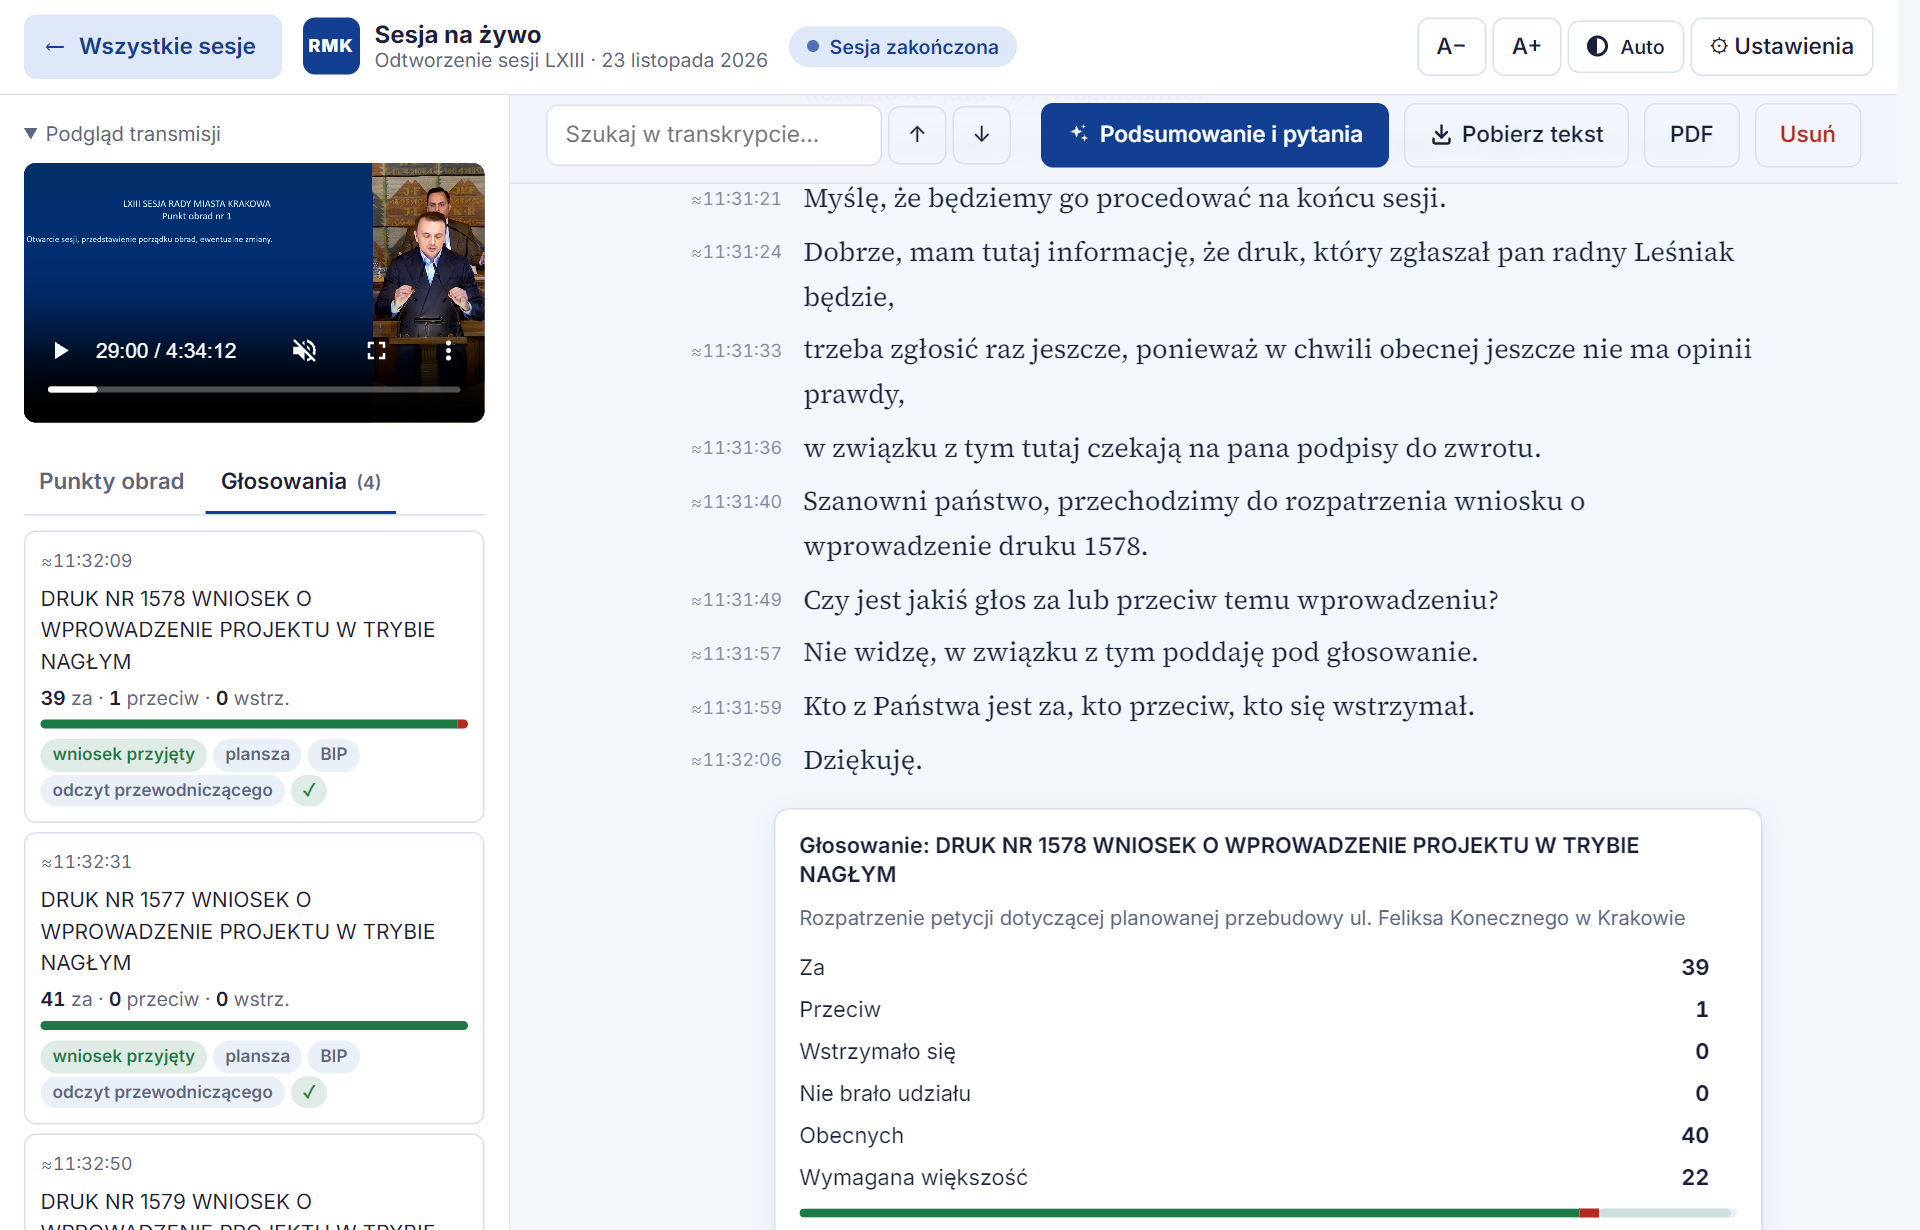
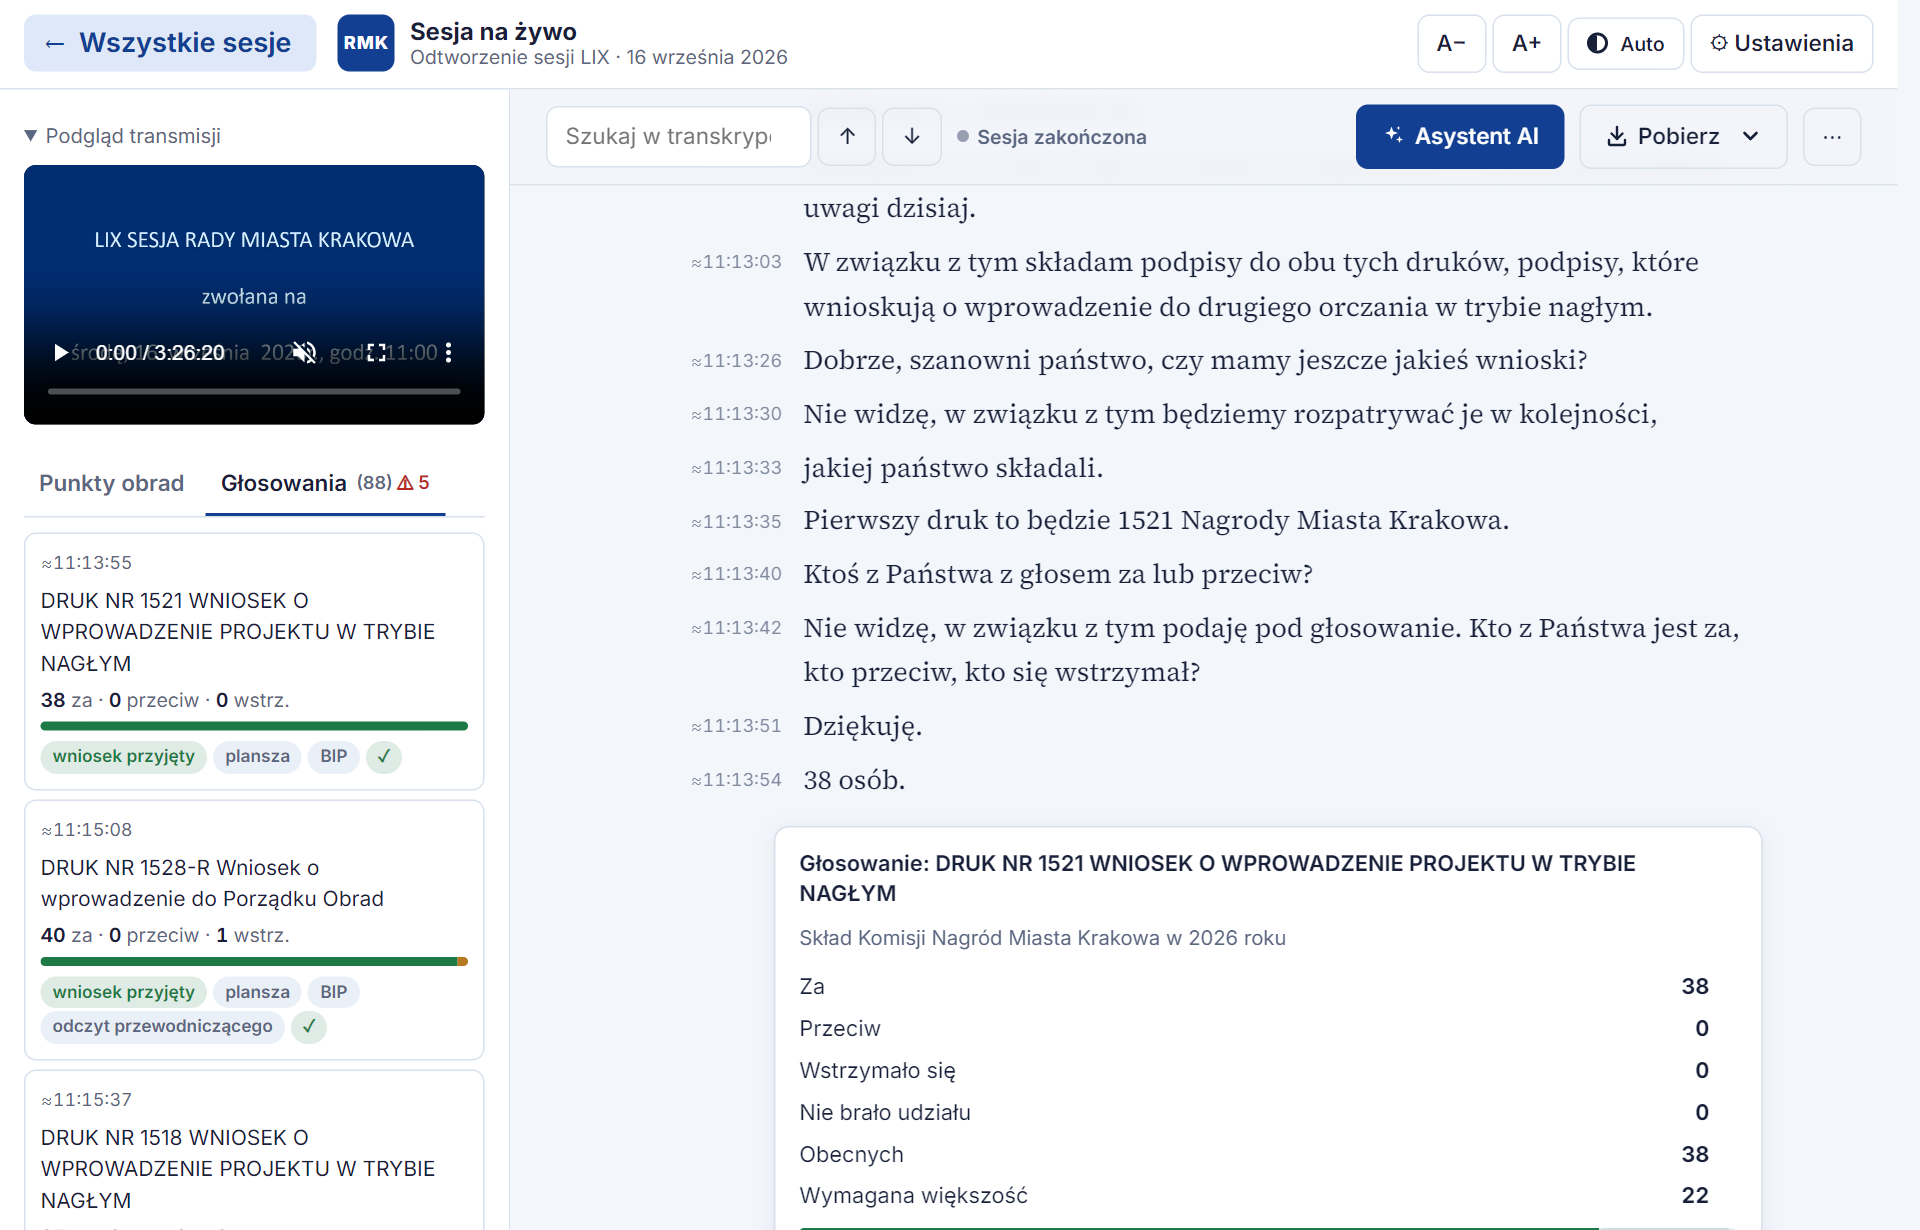
Strona i konfiguracja dla wersji 0.2.4

diff --git a/index.html b/index.html
@@ -98,9 +98,9 @@
         <div class="features">
           <div class="feature"><h3>Transkrypt na żywo</h3><p>Pełne zdania z godziną wypowiedzi, wyszukiwanie i wygodna kolumna do czytania. Tryb jasny i ciemny.</p></div>
           <div class="feature"><h3>Punkty obrad i głosowania</h3><p>Odczytuje planszę systemu głosowań z transmisji: druk, liczby za/przeciw/wstrzymało się i wynik. Wyniki imienne dociąga z BIP.</p></div>
-          <div class="feature"><h3>Podsumowanie i pytania</h3><p>Protokolarne podsumowanie i odpowiedzi z odnośnikami do wypowiedzi (darmowy klucz Gemini). Bez klucza – gotowe polecenie do skopiowania do własnego czatu AI.</p></div>
+          <div class="feature"><h3>Asystent AI</h3><p>Protokolarne podsumowanie i odpowiedzi z odnośnikami do wypowiedzi (darmowy klucz Gemini). Bez klucza – gotowe polecenie do skopiowania do własnego czatu AI.</p></div>
           <div class="feature"><h3>Bez opieki</h3><p>Sama zaczyna zapis, gdy zacznie się sesja, i kończy po niej. Zanik internetu czy restart komputera nie przerywa zapisu sesji.</p></div>
-          <div class="feature"><h3>Archiwum i PDF</h3><p>Każda sesja zostaje w archiwum na komputerze. Eksport do PDF z przebiegiem, tabelą głosowań i pełnym transkryptem.</p></div>
+          <div class="feature"><h3>Archiwum i PDF</h3><p>Każda sesja zostaje w archiwum na komputerze. Dwa pliki PDF: transkrypt sformatowany jak w aplikacji oraz podsumowanie z przebiegiem i głosowaniami (z wynikami imiennymi).</p></div>
           <div class="feature"><h3>Odtworzenie archiwum</h3><p>Dowolną archiwalną sesję z BIP można odtworzyć tak, jakby trwała na żywo – dobre do pokazania, jak to działa.</p></div>
         </div>
       </section>
@@ -111,7 +111,7 @@
           <figure><img src="img/sesja.png" alt="Widok sesji: transkrypt z godzinami, nagłówek punktu obrad i karta głosowania" loading="lazy"><figcaption>Transkrypt z punktami obrad i kartą głosowania</figcaption></figure>
           <figure><img src="img/glosowania-ciemny.png" alt="Lista głosowań z wynikami w trybie ciemnym" loading="lazy"><figcaption>Lista głosowań (tryb ciemny)</figcaption></figure>
           <figure><img src="img/ekran-glowny.png" alt="Ekran główny: czuwanie nad transmisją i archiwum sesji" loading="lazy"><figcaption>Ekran główny: czuwanie i archiwum</figcaption></figure>
-          <figure><img src="img/panel-ai.png" alt="Panel podsumowania i pytań" loading="lazy"><figcaption>Podsumowanie i pytania do AI</figcaption></figure>
+          <figure><img src="img/panel-ai.png" alt="Panel Asystenta AI" loading="lazy"><figcaption>Asystent AI</figcaption></figure>
         </div>
       </section>
 
@@ -158,7 +158,7 @@
               <img src="img/gemini-2.png" alt="Okno Create a new key z wyróżnionym przyciskiem Create key" loading="lazy">
               <p>Kliknij <strong>Copy key</strong>. Klucz traktuj jak hasło – nie wysyłaj go innym.</p>
               <img src="img/gemini-3.png" alt="Okno API key details z ukrytym kluczem i wyróżnionym przyciskiem Copy key" loading="lazy">
-              <p>W aplikacji otwórz dowolną sesję → <strong>✦ Podsumowanie i pytania</strong> → wklej klucz → <strong>Zapisz</strong>. Aplikacja sama sprawdzi, czy działa.</p>
+              <p>W aplikacji otwórz dowolną sesję → <strong>✦ Asystent AI</strong> → wklej klucz → <strong>Zapisz</strong>. Aplikacja sama sprawdzi, czy działa.</p>
               <p class="small">Bez klucza też możesz korzystać z AI: przycisk „Skopiuj polecenie z transkryptem” przygotuje tekst do wklejenia w ChatGPT, Gemini lub inny czat.</p>
             </div>
           </li>
